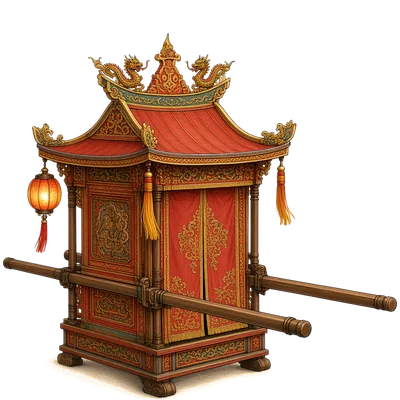
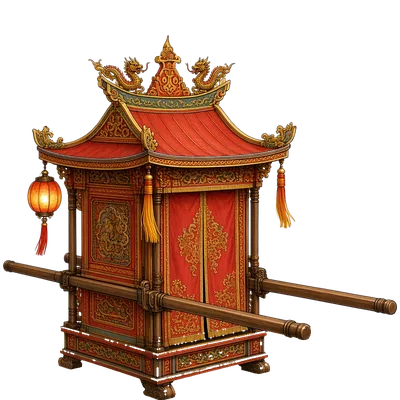
第一、二章熱鬧化修正第 3 輪：接上畫師補交的七爺、八爺、轎班、王轎、太子轎
- stageSpec B 組加 st_qiye、st_baye、st_jiaoban、st_wangjiao、st_taizijiao（共 16 張）；新版 st_jiao_qingling 去白邊，影子改畫在轎後
- 第一、二章過場的七爺八爺、轎班、王轎，第三章的太子轎都換成畫師圖；原本的程式圖放大後留作載入失敗的暫代
- 八爺放大到七爺約 0.75 高；王轎放大到 0.75；太子轎讓開「太子殿」匾
- 新圖用顏色矩陣降一點彩度，和同畫面風格一致（不改圖檔）
- tools/shots.mjs 加 --fix3；計畫 §5、§10、Q17／Q18／Q21 更新

Changed region(s): [[0.0, 0.09, 1.0, 1.0]]

diff --git a/src/content/stage/ch2.ts b/src/content/stage/ch2.ts
@@ -3,7 +3,7 @@
  * tide3、sendoff（原有台詞）＋新的 qingwang2、qianchuan2、heichaoReturn2、heichaoSlay2、songwang2（台詞【待定】，在 content/story.ts）。
  *
  * 海邊用 seaFar／seaFarN 遠景＋近海＋浪花前景（fore: 'sea'）；王船用 st_wangchuan／st_wangchuan_fire。
- * 轎班沒有 B 組全身圖，用說話者的小人 jiaoban 放大（和中軍府、巡捕的全身圖差不多高）。
+ * 轎班、王轎用畫師的 st_jiaoban、st_wangjiao（修正第 3 輪，Q21）；第二個轎班用淡色調區分（送王時翻面和第一個面對面）。圖沒載到時用程式小人放大的暫代。
  * 補寫的拍子標 draft（【待定】，見計畫 §9）。
  */
 import type { StageScript } from './types';
@@ -22,11 +22,11 @@ export const STAGES2: Record<string, StageScript> = {
     actors: [
       { id: 'decree', tex: 'decree', x: 380, y: -360, scale: 0.8, alpha: 0, center: true },
       { id: 'flag', tex: 'wlflag', x: 600, y: 20, scale: 1.1 },
-      { id: 'jiao', tex: 'jb_blue', x: 380, y: 20, scale: 1.25 },
+      { id: 'jiao', tex: 'st_wangjiao', x: 370, y: 15, scale: 0.75 },
       { id: 'zhongjun', tex: 'st_zhongjun', x: 170, y: 40, scale: 0.44 },
       { id: 'xunbu', tex: 'st_xunbu', x: 540, y: 60, scale: 0.44 },
-      { id: 'jiaoban', tex: 'jiaoban', x: 660, y: 90, scale: 1.75 },
-      { id: 'jiaoban2', tex: 'jiaoban', x: 60, y: 85, scale: 1.7, tint: 0xd8c8b0 },
+      { id: 'jiaoban', tex: 'st_jiaoban', x: 660, y: 90, scale: 0.44 },
+      { id: 'jiaoban2', tex: 'st_jiaoban', x: 60, y: 85, scale: 0.43, tint: 0xd8c8b0 },
     ],
     beats: [
       { who: 'narrator', text: '九月十四，東盛宮的匾換成了「代天府」。\n七境頭的轎班，天沒亮就到齊了。', src: 0, cam: { x: 360, y: -120, zoom: 1, ms: 1200 } },
@@ -45,8 +45,8 @@ export const STAGES2: Record<string, StageScript> = {
         moves: [{ id: 'xunbu', x: 500, ms: 400 }],
       },
       {
-        // 視覺修正：泡泡指向扛轎的轎班（王轎底下那排人），不指到令旗
-        at: 'jiao', who: 'jiaoban', text: '起轎——！千歲爺坐穩囉！', src: 5, fx: 'firecracker',
+        // 修正第 3 輪：畫師的王轎沒有轎班，泡泡改指旁邊的轎班
+        at: 'jiaoban', who: 'jiaoban', text: '起轎——！千歲爺坐穩囉！', src: 5, fx: 'firecracker',
         cam: { x: 480, y: -100, zoom: 1.1, ms: 800 },
         moves: [{ id: 'jiao', y: 0, hop: true, ms: 600 }, { id: 'jiaoban', x: 640, hop: true, ms: 400 }],
         sfx: { text: '嘿——！', at: 'jiaoban', color: 0xffd76a },
@@ -88,7 +88,7 @@ export const STAGES2: Record<string, StageScript> = {
       { id: 'paper', tex: 'jinzhi', x: 600, y: 70, scale: 1.2 },
       { id: 'zhongjun', tex: 'st_zhongjun', x: 660, y: 50, scale: 0.44 },
       { id: 'xunbu', tex: 'st_xunbu', x: 520, y: 75, scale: 0.44 },
-      { id: 'jiaoban', tex: 'jiaoban', x: -60, y: 90, scale: 1.75 },
+      { id: 'jiaoban', tex: 'st_jiaoban', x: -60, y: 90, scale: 0.44 },
       { id: 'sack', tex: 'yanmi', x: -120, y: 85, scale: 1.6 },
     ],
     beats: [
@@ -233,8 +233,8 @@ export const STAGES2: Record<string, StageScript> = {
       { id: 'heichao', tex: 'heichao', x: 600, y: 10, scale: 0.8, alpha: 0.85 },
       { id: 'ship', tex: 'st_wangchuan', x: 420, y: 10, scale: 0.46 },
       { id: 'mist', tex: 'smoke', x: 560, y: -40, scale: 7, tint: 0xcfe0f0, alpha: 0, center: true },
-      // 視覺修正：轎班暫代退到中軍府、巡捕後面一排，縮小一點
-      { id: 'jiaoban', tex: 'jiaoban', x: 125, y: 30, scale: 1.45 },
+      // 視覺修正：轎班退到中軍府、巡捕後面一排，縮小一點
+      { id: 'jiaoban', tex: 'st_jiaoban', x: 125, y: 30, scale: 0.36 },
       { id: 'zhongjun', tex: 'st_zhongjun', x: 70, y: 55, scale: 0.44 },
       { id: 'xunbu', tex: 'st_xunbu', x: 170, y: 80, scale: 0.44 },
     ],
@@ -282,8 +282,8 @@ export const STAGES2: Record<string, StageScript> = {
       { id: 'heichao', tex: 'heichao', x: 600, y: 10, scale: 0.85 },
       { id: 'ship', tex: 'st_wangchuan', x: 400, y: 10, scale: 0.46 },
       { id: 'spray', tex: 'smoke', x: 600, y: -80, scale: 3, tint: 0xe8eef4, alpha: 0, center: true },
-      // 視覺修正：轎班暫代退到中軍府、巡捕後面一排，縮小一點
-      { id: 'jiaoban', tex: 'jiaoban', x: 125, y: 30, scale: 1.45 },
+      // 視覺修正：轎班退到中軍府、巡捕後面一排，縮小一點
+      { id: 'jiaoban', tex: 'st_jiaoban', x: 125, y: 30, scale: 0.36 },
       { id: 'zhongjun', tex: 'st_zhongjun', x: 70, y: 55, scale: 0.44 },
       { id: 'xunbu', tex: 'st_xunbu', x: 170, y: 80, scale: 0.44 },
     ],
@@ -321,8 +321,8 @@ export const STAGES2: Record<string, StageScript> = {
     actors: [
       { id: 'decree', tex: 'decree', x: 380, y: -360, scale: 0.8, alpha: 0, center: true },
       { id: 'ash', tex: 'smoke', x: 470, y: 10, scale: 3.5, tint: 0x6a6460, alpha: 0.55, center: true },
-      { id: 'jiaoban', tex: 'jiaoban', x: 120, y: 85, scale: 1.75 },
-      { id: 'jiaoban2', tex: 'jiaoban', x: 215, y: 90, scale: 1.7, tint: 0xd8c8b0 },
+      { id: 'jiaoban', tex: 'st_jiaoban', x: 120, y: 85, scale: 0.44 },
+      { id: 'jiaoban2', tex: 'st_jiaoban', x: 215, y: 90, scale: 0.43, flip: true, tint: 0xd8c8b0 },
       { id: 'xunbu', tex: 'st_xunbu', x: 330, y: 75, scale: 0.44 },
       { id: 'zhongjun', tex: 'st_zhongjun', x: 590, y: 55, scale: 0.44 },
     ],

diff --git a/src/content/stage/index.ts b/src/content/stage/index.ts
@@ -9,8 +9,8 @@
  * 補寫的拍子標 draft（【待定】，見計畫 §9）。
  *
  * 石駒站姿：畫師只畫了跪、回頭（計畫 Q17），站著的石駒先用「回頭」那張（煞氣時加紫色調）；跪、回頭兩張都臉朝左；
- * 七爺八爺仍是陣頭小人（Q18），放大到和畫師的全身圖差不多高（八爺照樣比別人矮）；
- * 視覺修正：七爺縮到 1.1（和判官的全身圖一樣高，原本 1.35 高出兩成），播放器另外加深色描邊與落地影。
+ * 七爺八爺（Q18）：修正第 3 輪換成畫師的 st_qiye、st_baye（和判官同樣 0.44 高）；八爺的圖只有七爺的 0.67 高，
+ * scale 放大到 0.49，並排時約 0.75 高（矮一點但不會太小）。圖沒載到時用陣頭小人放大的暫代。
  */
 import type { StageScript } from './types';
 import { STAGES2 } from './ch2';
@@ -32,8 +32,8 @@ export const STAGES: Record<string, StageScript> = {
     actors: [
       { id: 'fog', tex: 'smoke', x: 560, y: -120, scale: 5, tint: 0x9b3cff, alpha: 0.35, center: true },
       { id: 'jiao', tex: 'st_jiao_qingling', x: 230, y: 40, scale: 0.45 },
-      { id: 'qiye', tex: 'qiye', x: 80, y: 70, scale: 1.1 },
-      { id: 'baye', tex: 'baye', x: 360, y: 95, scale: 1.35 },
+      { id: 'qiye', tex: 'st_qiye', x: 80, y: 70, scale: 0.44 },
+      { id: 'baye', tex: 'st_baye', x: 360, y: 95, scale: 0.49 },
       { id: 'decree', tex: 'decree', x: 230, y: -330, scale: 0.8, alpha: 0, center: true },
       { id: 'shiju', tex: 'st_shiju_look', x: 610, y: 80, scale: 0.42, tint: 0xb89ad0 },
     ],
@@ -124,8 +124,8 @@ export const STAGES: Record<string, StageScript> = {
       { id: 'jiao', tex: 'st_jiao_qingling', x: 360, y: 10, scale: 0.48 },
       { id: 'wenpan', tex: 'st_wenpan', x: 200, y: 30, scale: 0.44 },
       { id: 'wupan', tex: 'st_wupan', x: 525, y: 30, scale: 0.44 },
-      { id: 'qiye', tex: 'qiye', x: 610, y: 70, scale: 1.1 },
-      { id: 'baye', tex: 'baye', x: 680, y: 95, scale: 1.35 },
+      { id: 'qiye', tex: 'st_qiye', x: 610, y: 70, scale: 0.44 },
+      { id: 'baye', tex: 'st_baye', x: 680, y: 95, scale: 0.49 },
       { id: 'baoma', tex: 'st_baoma', x: -120, y: 90, scale: 0.48 },
     ],
     beats: [
@@ -174,9 +174,9 @@ export const STAGES: Record<string, StageScript> = {
     actors: [
       { id: 'flag', tex: 'flag1', x: 320, y: 0, scale: 0.9 },
       { id: 'wupan', tex: 'st_wupan', x: 390, y: 30, scale: 0.44 },
-      { id: 'qiye', tex: 'qiye', x: 480, y: 65, scale: 1.1 },
+      { id: 'qiye', tex: 'st_qiye', x: 480, y: 65, scale: 0.44 },
       { id: 'wenpan', tex: 'st_wenpan', x: 630, y: 35, scale: 0.44 },
-      { id: 'baye', tex: 'baye', x: 560, y: 95, scale: 1.35 },
+      { id: 'baye', tex: 'st_baye', x: 560, y: 95, scale: 0.49 },
       { id: 'baoma', tex: 'st_baoma', x: -120, y: 80, scale: 0.48 },
     ],
     beats: [
@@ -216,8 +216,8 @@ export const STAGES: Record<string, StageScript> = {
       { id: 'mist', tex: 'smoke', x: 640, y: -90, scale: 6, tint: 0xf0e6dc, alpha: 0, center: true },
       { id: 'decree', tex: 'decree', x: 190, y: -340, scale: 0.8, alpha: 0, center: true },
       { id: 'jiao', tex: 'st_jiao_qingling', x: 190, y: 30, scale: 0.42 },
-      { id: 'qiye', tex: 'qiye', x: 90, y: 70, scale: 1.1 },
-      { id: 'baye', tex: 'baye', x: 300, y: 95, scale: 1.35 },
+      { id: 'qiye', tex: 'st_qiye', x: 90, y: 70, scale: 0.44 },
+      { id: 'baye', tex: 'st_baye', x: 300, y: 95, scale: 0.49 },
       { id: 'shiju', tex: 'st_shiju_kneel', x: 470, y: 70, scale: 0.42 },
     ],
     beats: [
@@ -264,9 +264,9 @@ export const STAGES: Record<string, StageScript> = {
     ground: 0x2a2630,
     fore: 'mountain',
     actors: [
-      { id: 'qiye', tex: 'qiye', x: 75, y: 65, scale: 1.1 },
+      { id: 'qiye', tex: 'st_qiye', x: 75, y: 65, scale: 0.44 },
       { id: 'wenpan', tex: 'st_wenpan', x: 200, y: 35, scale: 0.44 },
-      { id: 'baye', tex: 'baye', x: 140, y: 95, scale: 1.35 },
+      { id: 'baye', tex: 'st_baye', x: 140, y: 95, scale: 0.49 },
       { id: 'wupan', tex: 'st_wupan', x: 300, y: 55, scale: 0.44 },
       { id: 'rubble', tex: 'st_rubble', x: 500, y: 75, scale: 1.2, alpha: 0 },
       { id: 'shiju', tex: 'st_shiju_kneel', x: 500, y: 70, scale: 0.42 },
@@ -313,8 +313,8 @@ export const STAGES: Record<string, StageScript> = {
       { id: 'decree', tex: 'decree', x: 360, y: -370, scale: 0.8, alpha: 0, center: true },
       { id: 'jiao', tex: 'st_jiao_qingling', x: 120, y: 10, scale: 0.48 },
       { id: 'wenpan', tex: 'st_wenpan', x: 150, y: 30, scale: 0.44 },
-      { id: 'qiye', tex: 'qiye', x: -80, y: 65, scale: 1.1 },
-      { id: 'baye', tex: 'baye', x: -160, y: 95, scale: 1.35 },
+      { id: 'qiye', tex: 'st_qiye', x: -80, y: 65, scale: 0.44 },
+      { id: 'baye', tex: 'st_baye', x: -160, y: 95, scale: 0.49 },
       { id: 'baoma', tex: 'st_baoma', x: 270, y: 90, scale: 0.48 },
     ],
     beats: [

diff --git a/src/ui/stage.ts b/src/ui/stage.ts
@@ -26,9 +26,17 @@ const BUBBLE_W = 400;
 const SHADOW: Record<string, { w: number; front?: boolean }> = {
   st_wenpan: { w: 0.7 }, st_wupan: { w: 0.7 }, st_baoma: { w: 0.6 }, st_zhongjun: { w: 0.7 }, st_xunbu: { w: 0.7 },
   st_shiju: { w: 0.75 }, st_shiju_calm: { w: 0.75 }, st_shiju_look: { w: 0.75 }, st_shiju_kneel: { w: 0.8 },
-  st_jiao_qingling: { w: 1.1, front: true }, jb_blue: { w: 1.05 },
+  // 修正第 3 輪：青嶺王神轎新圖去掉了底部白邊與地面陰影，影子改回轎子後面（程式補）
+  st_jiao_qingling: { w: 0.95 }, jb_blue: { w: 1.05 },
+  st_qiye: { w: 0.7 }, st_baye: { w: 0.8 }, st_jiaoban: { w: 0.7 }, st_wangjiao: { w: 0.75 }, st_taizijiao: { w: 0.7 },
   qiye: { w: 0.9 }, baye: { w: 0.9 }, jiaoban: { w: 0.9 },
 };
+
+/**
+ * 修正第 3 輪補交的圖比先前的 st_ 圖飽和：播放時降一點彩度（WebGL 的顏色矩陣，不改圖檔），和同畫面的判官、中軍府一致。
+ * 值是 saturate 的量（負的是降）。
+ */
+const MUTE: Record<string, number> = { st_qiye: -0.15, st_baye: -0.15, st_jiaoban: -0.25, st_wangjiao: -0.25, st_taizijiao: -0.5 };
 
 /** 程式畫的暫代小人（還沒有畫師的 B 組圖）：加一圈深色描邊，和畫師圖並排時不那麼突兀 */
 const OUTLINE = new Set(['qiye', 'baye', 'jiaoban']);
@@ -209,6 +217,7 @@ export class StagePlayer {
     img.setScale(actorScale(a.tex, a.scale, k, img.height));
     if (a.center) img.setOrigin(0.5); else img.setOrigin(0.5, 1);
     if (a.tint !== undefined) img.setTint(a.tint);
+    if (MUTE[a.tex]) img.preFX?.addColorMatrix().saturate(MUTE[a.tex]);
     if (a.tex === 'decree') {
       scene.tweens.add({ targets: img, scale: img.scale * 1.06, duration: 1200, yoyo: true, repeat: -1, ease: 'Sine.inOut' });
       const glow = scene.add.circle(a.x, G + a.y * k, 70 * k, 0xffd76a, 0).setBlendMode(Phaser.BlendModes.ADD);

diff --git a/src/content/stage/ch3.ts b/src/content/stage/ch3.ts
@@ -63,7 +63,7 @@ export const STAGES3: Record<string, StageScript> = {
     actors: [
       { id: 'flags', tex: 'w3_flags', x: 650, y: 10, scale: 1.1, alpha: 0.3 },
       // 神轎矮一點、往前站（修正第 2 輪：轎頂的寶珠原本插進「太子殿」匾）
-      { id: 'jiao', tex: 'w3_palanquin', x: 360, y: 30, scale: 1.0 },
+      { id: 'jiao', tex: 'st_taizijiao', x: 360, y: 60, scale: 0.6 },
       { id: 'liu', tex: 'b3_liu', x: 860, y: 30, scale: 1.2 },
       { id: 'lian', tex: 'b3_lian', x: 940, y: 40, scale: 1.2 },
       { id: 'taizi', tex: 'b3_taizi', x: 360, y: 50, scale: 1.1, alpha: 0 },
@@ -240,7 +240,7 @@ export const STAGES3: Record<string, StageScript> = {
       { id: 's2', tex: 'w3_soldier2', x: 220, y: -10, scale: 1.1, alpha: 0 },
       { id: 's3', tex: 'w3_soldier3', x: 310, y: -10, scale: 1.1, alpha: 0 },
       { id: 's4', tex: 'w3_soldier4', x: 400, y: -10, scale: 1.1, alpha: 0 },
-      { id: 'palanquin', tex: 'w3_palanquin', x: 110, y: 10, scale: 1.1 },
+      { id: 'palanquin', tex: 'st_taizijiao', x: 110, y: 10, scale: 0.68 },
       { id: 'taizi', tex: 'b3_taizi', x: 230, y: 50, scale: 1.1, alpha: 0 },
       { id: 'liu', tex: 'b3_liu', x: -100, y: 40, scale: 1.15 },
       { id: 'zhang', tex: 'b3_zhang', x: -40, y: 55, scale: 1.2 },
@@ -457,7 +457,7 @@ export const STAGES3: Record<string, StageScript> = {
     place: '新瀛太子殿・收營',
     actors: [
       { id: 'flags', tex: 'w3_flags', x: 700, y: 0, scale: 1.1 },
-      { id: 'jiao', tex: 'w3_palanquin', x: 360, y: 10, scale: 1.15 },
+      { id: 'jiao', tex: 'st_taizijiao', x: 360, y: 10, scale: 0.7 },
       { id: 'taizi', tex: 'b3_taizi', x: 360, y: 50, scale: 1.1 },
       // 跟回來的營兵（比出營時多）：從右邊走進來，站在北營後面
       { id: 's0', tex: 'w3_soldier0', x: 820, y: 30, scale: 1.1 },

diff --git a/src/art/stage.ts b/src/art/stage.ts
@@ -114,6 +114,26 @@ export function makeStageArt(scene: Phaser.Scene): void {
     for (let x = cx - 22; x < cx + 26; x += 8) g.lineBetween(x, by - 116, x, by - 74);
     g.restore();
   });
+
+  // 修正第 3 輪：七爺、八爺、轎班、王轎、太子轎的畫師圖沒載到時，用原本的程式小人／神轎放大當暫代
+  // （八爺照畫師圖只佔 2/3 高；兩頂神轎沿用有轎班扛的暫代）
+  enlarge(scene, 'st_qiye', 'qiye');
+  enlarge(scene, 'st_baye', 'baye', 0.67);
+  enlarge(scene, 'st_jiaoban', 'jiaoban');
+  enlarge(scene, 'st_wangjiao', 'jb_blue', 0.9);
+  enlarge(scene, 'st_taizijiao', 'w3_palanquin', 0.9);
+}
+
+/** 把已經畫好的貼圖 src 等比放大進 key 的設計尺寸（底部置中、最高佔 fill 成高） */
+function enlarge(scene: Phaser.Scene, key: string, src: string, fill = 1): void {
+  if (scene.textures.exists(key) || !scene.textures.exists(src)) return;
+  const [w, h] = STAGE_SIZES[key];
+  const img = scene.textures.get(src).getSourceImage() as HTMLCanvasElement | HTMLImageElement;
+  const s = Math.min(w / img.width, (h * fill) / img.height);
+  const ct = scene.textures.createCanvas(key, w, h);
+  if (!ct) return;
+  ct.context.drawImage(img, (w - img.width * s) / 2, h - img.height * s, img.width * s, img.height * s);
+  ct.refresh();
 }
 
 /** 一地碎石：大小不一的灰色石塊，上面有一點青苔 */

diff --git a/src/art/stageSpec.ts b/src/art/stageSpec.ts
@@ -23,7 +23,7 @@ export const STAGE_PORTRAITS: Record<string, Expr[]> = {
 export const STAGE_PORTRAIT_FILES: string[] = Object.entries(STAGE_PORTRAITS).flatMap(([id, ex]) => ex.map((e) => `${id}_${e}.webp`));
 
 /**
- * B 組：演出用全身小人（11 張，去背、腳底對齊下緣，畫 2 倍大）。
+ * B 組：演出用全身小人與神轎（16 張，去背、腳底對齊下緣，畫 2 倍大）。
  * [寬, 高] 是畫師交圖的尺寸，也是程式畫暫代的尺寸；演出腳本的 scale 以這個尺寸為準
  * （畫師的圖尺寸不同也會縮成同樣的顯示高度）。
  */
@@ -39,6 +39,12 @@ export const STAGE_ART = {
   st_wangchuan: [1024, 600],
   st_wangchuan_fire: [1024, 600],
   st_jiao_qingling: [400, 400],
+  // 修正第 3 輪補交（Q18、Q21）：七爺、八爺、轎班全身；王轎（第二章）、太子轎（第三章）。神轎沒有轎班，轎班另外站
+  st_qiye: [240, 480],
+  st_baye: [240, 480],
+  st_jiaoban: [240, 480],
+  st_wangjiao: [400, 400],
+  st_taizijiao: [400, 400],
 } as const satisfies Record<string, readonly [number, number]>;
 
 export type StageArtKey = keyof typeof STAGE_ART;

diff --git a/tests/stage.test.ts b/tests/stage.test.ts
@@ -205,8 +205,8 @@ describe('美術檔名（計畫 §5）', () => {
     for (const f of STAGE_PORTRAIT_FILES) expect(plan, f).toContain(f);
   });
 
-  it('B 組 11 張 st_ 小人：檔名、尺寸和計畫一致', () => {
-    expect(STAGE_FILES).toHaveLength(11);
+  it('B 組 16 張 st_ 小人：檔名、尺寸和計畫一致', () => {
+    expect(STAGE_FILES).toHaveLength(16);
     for (const k of STAGE_FILES) {
       const [w, h] = STAGE_ART[k];
       // 計畫的表格：| … | `st_xxx.webp` | 240×480 | … |

diff --git a/docs/第一二章_熱鬧化計畫.md b/docs/第一二章_熱鬧化計畫.md
@@ -309,14 +309,14 @@
 
 ## 5. 美術需求清單與「有圖用圖」規則
 
-畫師正在畫 A 組 12 張立繪與 B 組 11 張 `st_` 小人。**檔名與位置就是程式找圖的依據**，對上就自動換；沒有就用程式畫的暫代。
+畫師正在畫 A 組 12 張立繪與 B 組 16 張 `st_` 小人（原 11 張＋修正第 3 輪補交 5 張）。**檔名與位置就是程式找圖的依據**，對上就自動換；沒有就用程式畫的暫代。
 
 ### 有圖用圖的規則
 
 | 類別 | 放哪裡 | 程式怎麼接 |
 |---|---|---|
 | A 組立繪 | `public/portraits/<id>_<表情>.webp`（420×560 去背，角色朝右、底部對齊） | `art/stageSpec.ts` 列出這 12 個檔名，`AssetScene` 嘗試載入，合進 `SETS`；`portraitKey` 找得到就用圖，找不到用程式畫的小人 |
-| B 組 `st_` 小人 | `public/stage/st_<名稱>.webp`（去背、腳底對齊下緣） | `art/stageSpec.ts` 列出 11 個檔名；BootScene 先用同名畫好暫代，`AssetScene` 用暫時名字載入、載到就蓋掉暫代（第三章戰鬥圖同一套 `replaceTexture`，顯示高度不變） |
+| B 組 `st_` 小人 | `public/stage/st_<名稱>.webp`（去背、腳底對齊下緣） | `art/stageSpec.ts` 列出 16 個檔名；BootScene 先用同名畫好暫代，`AssetScene` 用暫時名字載入、載到就蓋掉暫代（第三章戰鬥圖同一套 `replaceTexture`，顯示高度不變） |
 
 - 檔案不在：瀏覽器主控台會有一行 404 警告（第三章戰鬥圖也一樣），遊戲照常。
 - 畫師若把 `st_` 檔放在別的資料夾（例如 `public/battle/`），**不搬動畫師的檔案**，改程式的載入路徑並記在 §10。
@@ -333,7 +333,7 @@
 | 巡捕（現在借中軍府換色） | `xunbu_normal.webp`、`xunbu_angry.webp` | 420×560 | 第二章夜審、過場 |
 | 轎班（七境頭青年代表） | `jiaoban_normal.webp`、`jiaoban_smile.webp` | 420×560 | 第二章過場 |
 
-### B 組：演出用全身小人（11 張）
+### B 組：演出用全身小人與神轎（16 張）
 
 畫成「舞台上的全身角色」，去背、腳底對齊下緣，比例跟陣頭小人一致（畫面上約 180～300 高，畫 2 倍）。
 
@@ -349,9 +349,14 @@
 | 黑潮・人形（浪裡五個人影） | `st_heichao_figures.webp` | 640×480 | `sendoff`、`heichaoReturn2` |
 | 王船（側面） | `st_wangchuan.webp` | 1024×600 | `tide3`、`qianchuan2`、`sendoff` |
 | 王船（燒） | `st_wangchuan_fire.webp` | 1024×600 | `sendoff`、`songwang2` |
-| 青嶺王神轎（暗訪，有轎簾） | `st_jiao_qingling.webp` | 400×400 | 第一章（現在共用 `palanquin`） |
+| 青嶺王神轎（暗訪，有轎簾） | `st_jiao_qingling.webp` | 400×400 | 第一章（修正第 3 輪換新版：去掉底部白邊與地面陰影，影子改由程式補） |
+| 七爺全身（修正第 3 輪補交，Q18） | `st_qiye.webp` | 240×480 | 第一章過場 |
+| 八爺全身（同上；人只佔圖高 0.67，腳本放大到約七爺的 0.75） | `st_baye.webp` | 240×480 | 第一章過場 |
+| 轎班全身（修正第 3 輪補交，Q21） | `st_jiaoban.webp` | 240×480 | 第二章過場 |
+| 王轎（沒有轎班） | `st_wangjiao.webp` | 400×400 | `qingwang2` |
+| 太子轎（沒有轎班） | `st_taizijiao.webp` | 400×400 | 第三章 `kaiying3`、`jiao3`、`shouying3` |
 
-七爺、八爺、轎班全身沿用現有陣頭小人（`qiye`、`baye` 等），不另列。第三章不需新圖（已有 `bg/`、`battle/`、五營立繪）。
+七爺、八爺、轎班、王轎、太子轎原本用陣頭小人與程式畫的神轎（`qiye`、`baye`、`jiaoban`、`jb_blue`、`w3_palanquin`）；修正第 3 輪換成上面的畫師圖，原本的程式圖放大後留作沒載到時的暫代（`art/stage.ts` 的 `enlarge`）。白天隊伍、戰鬥仍用原本的程式圖。新圖比先前的 `st_` 圖飽和，播放器用顏色矩陣降一點彩度（`ui/stage.ts` 的 `MUTE`，不改圖檔）。
 
 ### C 組：關鍵大圖（可選，不在這次的階段）
 
@@ -386,10 +391,10 @@
 |---|---|---|
 | Q15 | 所有補寫台詞、旁白、今日陣頭卡文字（§9） | 先用【待定】版本上線到測試區，作者看過再改 |
 | Q16 | `retreat`（石駒退回山上）目前沒有任何場景會播 | 不寫演出、不刪；要不要接回流程請作者決定 |
-| Q17 | 石駒「站姿」沒有畫師圖（B 組只有跪、回頭） | 演出開頭的煞氣石駒用程式畫的細緻暫代 `st_shiju`，跪下那拍換成畫師的 `st_shiju_kneel`；風格落差明顯，要不要請畫師補一張站姿（煞氣）圖？若要，檔名用 st_shiju（屆時加進 §5 B 組與 `stageSpec`） |
-| Q18 | 七爺、八爺在演出裡仍是陣頭小人（§5 說沿用），旁邊是畫師的大圖，比例與畫風落差大 | 第 2 階段已放大到 1.35 倍；視覺修正階段七爺縮回 1.1（和判官一樣高）、加深色描邊與落地影，畫風落差仍在。評分表建議請畫師補 `st_qiye`、`st_baye`（240×480，八爺約 0.75 高、圓胖）；要不要請？ |
+| Q17 | 石駒「站姿」沒有畫師圖（B 組只有跪、回頭） | 演出開頭的煞氣石駒用程式畫的細緻暫代 `st_shiju`，跪下那拍換成畫師的 `st_shiju_kneel`；風格落差明顯，要不要請畫師補一張站姿（煞氣）圖？若要，檔名用 st_shiju（屆時加進 §5 B 組與 `stageSpec`）。**已有圖（修正第 3 輪）**：站著的石駒已經改用畫師的 `st_shiju_look`（見自行決定 2）。畫師這輪沒有補「站姿」新圖，`st_shiju` 暫代仍保留 |
+| Q18 | 七爺、八爺在演出裡仍是陣頭小人 | **已有圖（修正第 3 輪）**：已換成畫師的 `st_qiye`、`st_baye`（scale 0.44／0.49）。八爺的圖只有七爺的 0.67 高，放大後並排約 0.75 高。陣頭小人放大後留作沒載到時的暫代 |
 | Q20 | `st_shiju_look` 新版臉朝左、是真的回頭（交圖說明寫臉朝右、瞥一眼） | 畫師 21:22 補充說明已確認新版（臉朝左、真的回頭、和 `st_shiju_kneel` 同方向）；程式沒有寫死 `setFlipX`，腳本的 `flip` 只用在走位方向。作者若沒有其他意見就算定案 |
-| Q21 | 轎班沒有 B 組全身圖（§5 只有立繪 `jiaoban_*`），演出裡用程式畫的小人放大，站在畫師的中軍府、巡捕旁邊畫風落差很大（和 Q18 一樣） | 先用暫代；要不要請畫師補 `st_jiaoban` 全身圖（240×480）？若要，加進 §5 B 組與 `stageSpec`，腳本把 `jiaoban` 換成 `st_jiaoban`、scale 改 0.44 即可 |
+| Q21 | 轎班沒有 B 組全身圖 | **已有圖（修正第 3 輪）**：已換成畫師的 `st_jiaoban`（0.44，後排 0.36）。王轎也換成 `st_wangjiao`（0.75），第三章太子轎換成 `st_taizijiao`。新神轎沒有轎班，`qingwang2`「起轎」的泡泡改指旁邊的轎班 |
 | Q22 | 第二章 5 段新過場的劇情安排（請王時巡捕把香油錢收據當王令、王船廠「船底下的沙濕了一圈」伏筆黑潮、鎮回海裡「五排腳印走進海裡、三年後再來接」、斬是中軍府令下行刑、送王轎班吃虱目魚粥） | 照計畫方向寫，台詞【待定】；請作者看測試區後定稿 |
 | Q23 | 第三章演出裡，太子、四將是戰鬥姿勢的全身圖（拿兵器、踩風火輪），日常對話（開營、收營）也是這個姿勢 | 先用戰鬥圖＋泡泡小頭像（表情）；要不要請畫師補「站著」的全身圖（例如 `st_taizi` 等）？ |
 | Q24 | 第三章 8 段沒有補寫台詞（第一、二章有補隨從插話） | 原台詞已夠熱鬧；作者若想要，可以在演出版補幾拍（標【待定】） |
@@ -522,4 +527,5 @@
 | 2026-11-01 | 第 6 階段 | 夜審互嗆：`TrialScene` 掛勾（升堂、出示對／錯、怨氣滿、各種判決，含有冤被斬）；兩章 `t_*` 台詞（【待定】）；字幕放在鬼的立繪左邊、限寬到光圈（`core/layout.ts` 的 `TRIAL`）；互嗆換行避開行首標點；新增 `tests/trial12.test.ts`，`banter12` 改斷言。夜審規則、怨氣、證據對應、第三章不變；build／test 全過（325 項） | f887eae |
 | 2026-11-01 | 第 7 階段 | 最後一戰互嗆＋整合＋截圖：`BossScene` 改成「這一章有這個 key 就播」（第三章行為不變），新掛勾刨地、衝鋒、喘息、勾魂鎖、醒獅、觸手拖船、王船被推回、陣前審問（說動／沒說動，動畫播完才播）；兩章 `b_*` 台詞（【待定】）；新增 `tests/boss12.test.ts`（含三章 × 三種結局路線每段過場都有演出），`integrate3`、`banter12` 改斷言；`tools/shots.mjs` 截圖 40 張＋`urls.txt`。`core/boss.ts` 與戰鬥數值不動；build／test 全過（344 項）。**全部階段完成** | 9f7e6d4 |
 | 2026-11-01 | 視覺修正 | 依 `shots/score.md`「明顯要修」11 項修擺位、縮放、圖層、泡泡、版面（見 §2「視覺修正階段」）；重截 36＋4 張（舊圖在 `shots/before/`）、`score.md` 加修正紀錄。玩法、數值、美術檔不動；build／test 全過（344 項） | 75bdfe8 |
-| 2026-11-01 | 修正第 2 輪 | 夜審互嗆改成全寬字幕條（Q25，查出上一輪沒生效的原因）；最後一戰互嗆最多兩行、補截電腦版（Q26）；開營泡泡讓開「太子殿」匾。截圖 `shots/fix2/`（22＋16 張）、`score.md`。玩法、數值、美術檔不動。這輪工作中畫師放進 `public/stage/` 的新圖（`st_qiye`、`st_baye`、`st_jiaoban`、`st_taizijiao`、`st_wangjiao`，及改過的 `st_jiao_qingling`）沒有 commit、也沒有接上，留到下一輪 | （本次提交，見 git log） |
+| 2026-11-01 | 修正第 2 輪 | 夜審互嗆改成全寬字幕條（Q25，查出上一輪沒生效的原因）；最後一戰互嗆最多兩行、補截電腦版（Q26）；開營泡泡讓開「太子殿」匾。截圖 `shots/fix2/`（22＋16 張）、`score.md`。玩法、數值、美術檔不動。這輪工作中畫師放進 `public/stage/` 的新圖（`st_qiye`、`st_baye`、`st_jiaoban`、`st_taizijiao`、`st_wangjiao`，及改過的 `st_jiao_qingling`）沒有 commit、也沒有接上，留到下一輪 | f32ab4c |
+| 2026-11-01 | 修正第 3 輪（換圖） | 接上畫師補交的 `st_qiye`、`st_baye`、`st_jiaoban`、`st_wangjiao`、`st_taizijiao`（`stageSpec` B 組 16 張），以及新版 `st_jiao_qingling`（去掉白邊，影子改由程式畫在轎子後面）。第一、二章過場的七爺、八爺、轎班、王轎，以及第三章 `kaiying3`／`jiao3`／`shouying3` 的太子轎，都換成畫師的圖。原本的程式圖放大後留作沒載到時的暫代（`art/stage.ts` 的 `enlarge`）。八爺放大到七爺的約 0.75 高；王轎放大到 0.75，浮雕不會被看成人；太子轎放低，讓開「太子殿」匾。新圖用顏色矩陣降低彩度（`MUTE`，不改圖檔）。另加 `tools/shots.mjs --fix3`，截圖放在 `shots/fix3/`（20 張），評分寫在 `score.md`。玩法、數值不動，白天隊伍、戰鬥仍用原本的程式圖；build／test 全過（345 項） | （本次提交，見 git log） |
